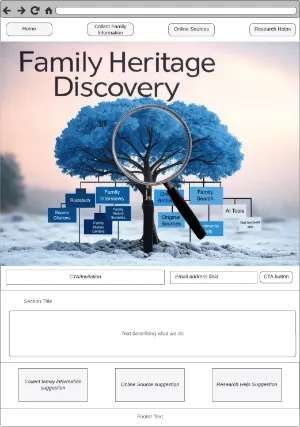
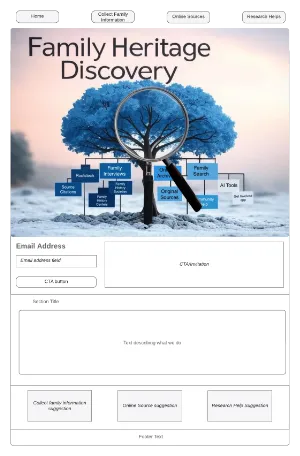
updated home page design to use vertical forms

diff --git a/project/siteplan.html b/project/siteplan.html
@@ -151,8 +151,9 @@
         <section>
             <h2>Mobile Home Page Wireframe</h2>
             <picture>
-                <source srcset="images/wireframe-mobile-homepage-400.webp" media="(max-width: 500px)">
-                <img src="images/wireframe-mobile-homepage-680.webp" width="680" alt="Mobile home page">
+                <source srcset="images/wireframe-mobile-homepage-300.webp" media="(max-width: 300px)">
+                <source srcset="images/wireframe-mobile-homepage-500.webp" media="(max-width: 500px)">
+                <img src="images/wireframe-mobile-homepage-751.webp" width="751" alt="Mobile home page">
             </picture>
         </section>
         <section>
